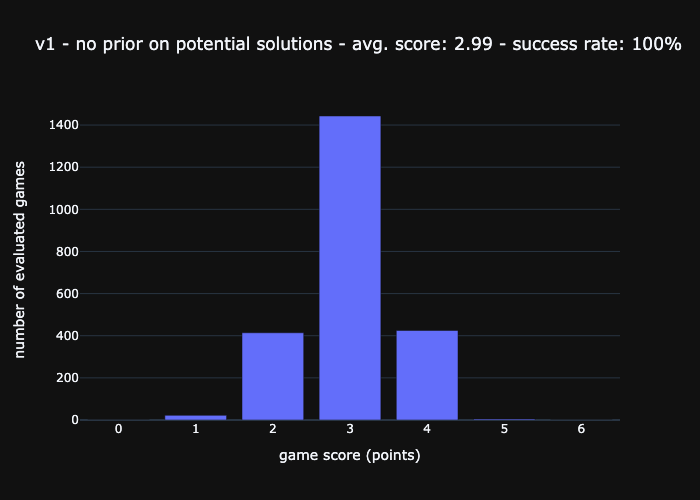
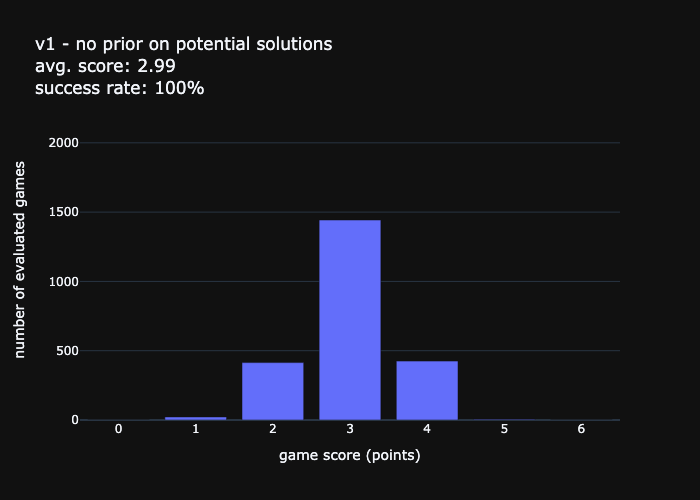
update README

diff --git a/src/wordle/eval.py b/src/wordle/eval.py
@@ -62,14 +62,14 @@ class EvalResults:
         fig = px.bar(
             self.value_counts(),
             template="plotly_dark",
-            title=f"{title} - avg. score: {self.avg_score:.2f} - success rate: {self.success_rate:.0%}",
+            title=f"{title}<br>avg. score: {self.avg_score:.2f}<br>success rate: {self.success_rate:.0%}",
             y="counts",
             labels={
                 "index": "game score (points)",
                 "counts": "number of evaluated games",
             },
-            xlim=[0, len(self.scores)],
         )
+        fig.update_yaxes({"range": [0, len(self.scores)]})
         fig.show()
         return fig
 

diff --git a/README.md b/README.md
@@ -1,12 +1,25 @@
-# wordle
-/Description/
+# wordle solver
 ## Motivation
-
+* build an agent that can play Wordle, with the goal to maximize its score on a given evaluation set.
 ## Method and Results
 
+### Heuristic
+* use $entropy=\sum p * log_2(1 / p)$ estimates how much a given guess is expected to reduce the number of possible solutions (weighted average of all possible outcomes)
+* v1: no prior on what are actual possible solutions (all 13k words are equally considered possible)
+* v2: only actual possible solutions (2.9k words) are considered.
+* v3: add 2 step look-ahead (consider expected entropy given best next guess following original one and guess outcome) (TO DO)
+### Results
+| v1 - 13k possible solutions | v2 - 2.9k possible solutions | v3: v2 with 2-steps look-ahead |
+|:---|:---:|---:|
+| ![](images/eval_v1.png)| ![](images/eval_v2.png)| TO DO|
+
 ## How to Install
+`conda create -f environment.yml`  
+`pip install -e .`
 
 ## More Resources
+* main source of insipiration for this body of work: https://www.3blue1brown.com/lessons/wordle
+* related to above: https://jonathanolson.net/experiments/optimal-wordle-solutions 
 
 ## About
 
